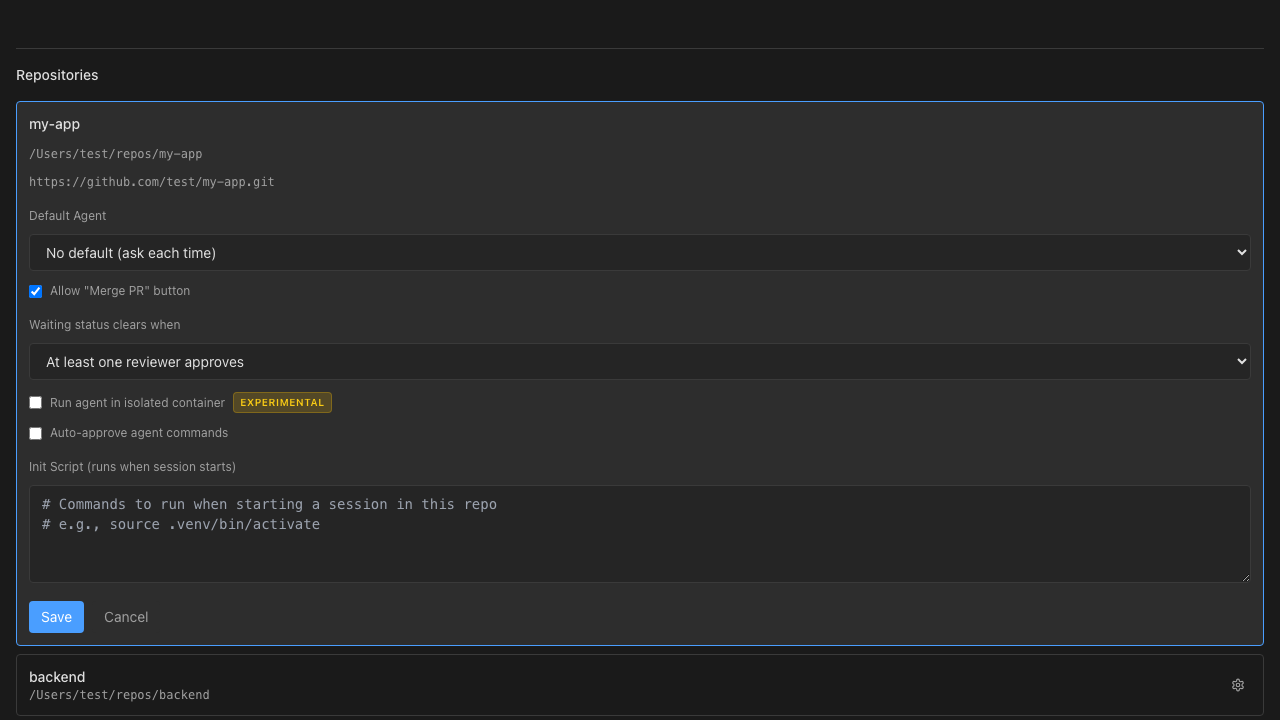
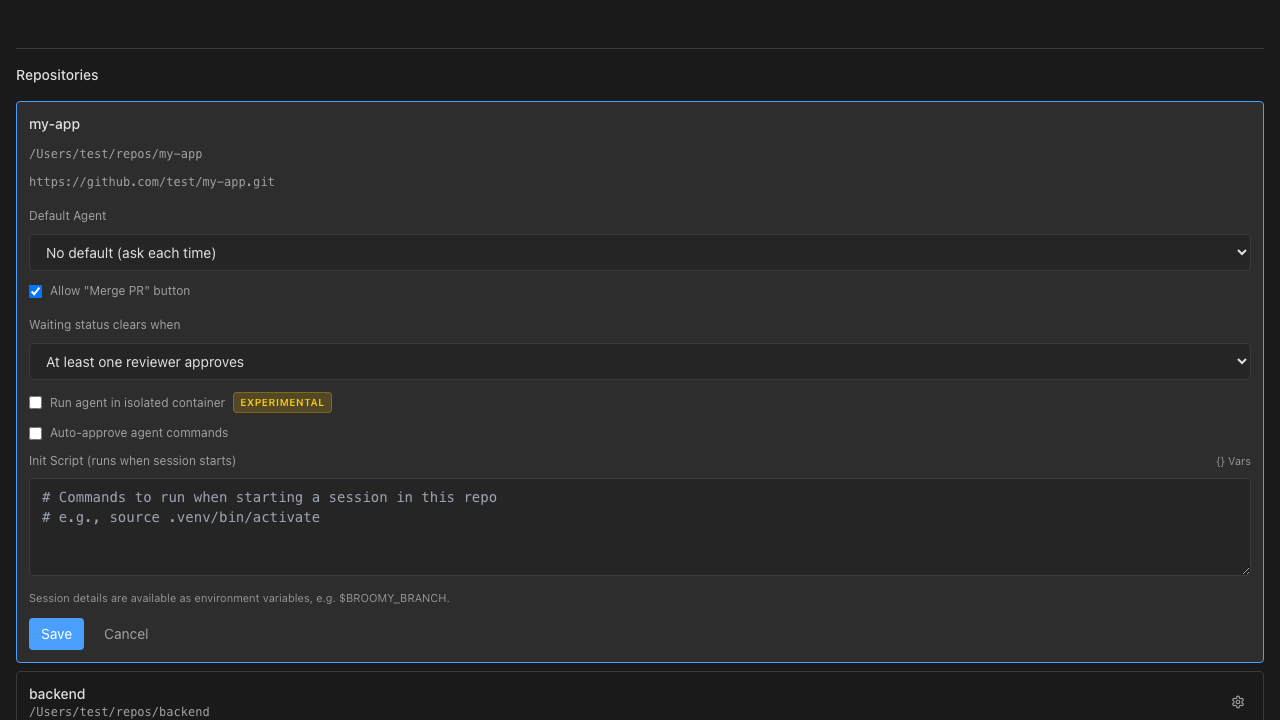
docs: screenshot walkthrough for template variables
Adds tests/features/template-vars covering all four surfaces, a stable
test id on the command field, and Storybook references for the new picker
stories plus the settings panels that gained a Vars button.

Shortens the init-surface unavailable reason so it is not truncated in
the picker's value column.

Claude-Session: https://claude.ai/code/session_01Nc7ptNDG1siTz1h19ecGL4

Changed region(s): [[0.0, 0.825, 0.3438, 1.0], [0.0312, 0.6111, 0.4062, 0.7333], [0.9375, 0.9167, 0.9688, 0.9472]]

diff --git a/tests/features/template-vars/template-vars.spec.ts b/tests/features/template-vars/template-vars.spec.ts
@@ -1,0 +1,306 @@
+/**
+ * Feature Documentation: Template Variables
+ *
+ * Documents the template variable registry and its picker modal across all four
+ * surfaces that accept variables: commands.json templates, the expanded command
+ * editor, the agent command, and the per-repo init script.
+ *
+ * Two syntaxes, chosen by target. Data targets ({} form) are never parsed by a
+ * shell; shell targets ($BROOMY_ form) receive values as environment variables
+ * so GitHub-controlled titles cannot be spliced into a command line.
+ *
+ * Run with: pnpm test:feature-docs template-vars
+ */
+import { test, expect, resetApp } from '../_shared/electron-fixture'
+import type { Page } from '@playwright/test'
+import path from 'path'
+import fs from 'fs'
+import { fileURLToPath } from 'url'
+import { screenshotElement } from '../_shared/screenshot-helpers'
+import { generateFeaturePage, generateIndex, FeatureStep } from '../_shared/template'
+
+const __filename = fileURLToPath(import.meta.url)
+const __dirname = path.dirname(__filename)
+
+const FEATURE_DIR = __dirname
+const SCREENSHOTS = path.join(FEATURE_DIR, 'screenshots')
+const FEATURES_ROOT = path.join(__dirname, '..')
+
+let page: Page
+const steps: FeatureStep[] = []
+
+async function openCommandsEditor() {
+  await page.evaluate(() => {
+    const store = (window as Record<string, unknown>).__sessionStore as {
+      getState: () => {
+        activeSessionId: string
+        sessions: { id: string; directory: string }[]
+        openCommandsEditor: (sessionId: string, directory: string) => void
+      }
+    }
+    if (!store) return
+    const state = store.getState()
+    const session = state.sessions.find(s => s.id === state.activeSessionId)
+    if (session) state.openCommandsEditor(state.activeSessionId, session.directory)
+  })
+}
+
+async function openSettings() {
+  const settingsButton = page.locator('button[title^="Settings"]')
+  await settingsButton.click()
+  await page.waitForSelector('[data-panel-id="settings"]', { state: 'visible', timeout: 5000 })
+}
+
+/** The picker dialog, once opened from any surface. */
+function varsDialog() {
+  return page.getByRole('dialog', { name: 'Template variables' })
+}
+
+test.beforeAll(async () => {
+  await fs.promises.mkdir(SCREENSHOTS, { recursive: true })
+  ;({ page } = await resetApp())
+})
+
+test.afterAll(async () => {
+  await generateFeaturePage(
+    {
+      title: 'Template Variables',
+      description:
+        'Command templates can inject session state — the current branch, PR, issue, repo, and ' +
+        'stage — via 14 variables defined in one registry. A searchable picker makes them ' +
+        'discoverable from every surface that accepts them, showing each variable\'s description ' +
+        'and its current live value, and inserting it at the cursor. ' +
+        'The syntax depends on the target: data targets (commands.json templates, agent env ' +
+        'values) use {name}, while shell targets (the agent command, the repo init script) use ' +
+        '$BROOMY_NAME. That split is deliberate — PR and issue titles carry GitHub-controlled ' +
+        'text, and passing them as environment variables keeps them inert data rather than ' +
+        'splicing them into a command line.',
+      steps,
+    },
+    FEATURE_DIR,
+  )
+  await generateIndex(FEATURES_ROOT)
+})
+
+test.describe.serial('Feature: Template Variables', () => {
+  test('Step 1: The commands editor exposes a Vars button', async () => {
+    await openCommandsEditor()
+    await expect(page.getByRole('tab', { name: /user/i })).toBeVisible()
+
+    // Select the first command so the detail pane renders.
+    await page.locator('button:has(.text-2xs.font-mono)').first().click()
+
+    const varsButton = page.getByTestId('open-template-vars')
+    await expect(varsButton).toBeVisible()
+
+    const editor = page.getByRole('tab', { name: /user/i })
+      .locator('xpath=ancestor::div[contains(@class, "h-full")][1]').first()
+    await screenshotElement(page, editor, path.join(SCREENSHOTS, '01-vars-button.png'), {
+      maxHeight: 720,
+    })
+    steps.push({
+      screenshotPath: 'screenshots/01-vars-button.png',
+      caption: 'A "{} Vars" button sits beside Expand on the Command field',
+      description:
+        'Previously the only hint that variables existed was a line of help text. The Command ' +
+        'field now carries a "{} Vars" button next to "⤢ Expand", so the available variables are ' +
+        'one click away while you are writing the template.',
+    })
+  })
+
+  test('Step 2: The picker lists every variable, grouped, with live values', async () => {
+    await page.getByTestId('open-template-vars').click()
+
+    const dialog = varsDialog()
+    await expect(dialog).toBeVisible()
+
+    // Grouped by section, in registry order.
+    await expect(dialog.getByText('Repo', { exact: true })).toBeVisible()
+    await expect(dialog.getByText('Pull request', { exact: true })).toBeVisible()
+    await expect(dialog.getByText('Issue', { exact: true })).toBeVisible()
+
+    // Data surface, so the {} form.
+    await expect(dialog.getByText('{branch}')).toBeVisible()
+    await expect(dialog.getByText('{prTitle}')).toBeVisible()
+
+    await screenshotElement(page, dialog, path.join(SCREENSHOTS, '02-picker-open.png'), {
+      maxHeight: 720,
+    })
+    steps.push({
+      screenshotPath: 'screenshots/02-picker-open.png',
+      caption: 'All 14 variables, grouped by Repo / Branch / Pull request / Issue / Session',
+      description:
+        'Each row shows the variable, a one-line description, and its current value on the right ' +
+        'resolved against the active session — so you can see what a template will actually ' +
+        'produce before saving it. A variable with no value right now reads as "—". Values come ' +
+        'from the same function the runtime uses, so the picker and the resolved command can ' +
+        'never disagree.',
+    })
+  })
+
+  test('Step 3: Search narrows the list', async () => {
+    const dialog = varsDialog()
+    await dialog.getByPlaceholder('Search variables…').fill('issue')
+
+    await expect(dialog.getByText('{issueTitle}')).toBeVisible()
+    await expect(dialog.getByText('{branch}')).toHaveCount(0)
+
+    await screenshotElement(page, dialog, path.join(SCREENSHOTS, '03-picker-search.png'), {
+      maxHeight: 720,
+    })
+    steps.push({
+      screenshotPath: 'screenshots/03-picker-search.png',
+      caption: 'Searching filters on name, env name, and description',
+      description:
+        'Typing "issue" narrows the list to the Issue group. The search matches the variable ' +
+        'name, its BROOMY_ environment name, and the description text, so you can find a ' +
+        'variable by what it does rather than what it is called.',
+    })
+
+    await dialog.getByPlaceholder('Search variables…').fill('')
+  })
+
+  test('Step 4: Clicking a variable inserts it at the cursor', async () => {
+    const dialog = varsDialog()
+    await dialog.getByText('{branch}').click()
+
+    // Dialog closes on insert.
+    await expect(dialog).toHaveCount(0)
+
+    const commandField = page.getByTestId('command-template-field')
+    await expect(commandField).toHaveValue(/\{branch\}/)
+
+    const editor = page.getByRole('tab', { name: /user/i })
+      .locator('xpath=ancestor::div[contains(@class, "h-full")][1]').first()
+    await screenshotElement(page, editor, path.join(SCREENSHOTS, '04-inserted.png'), {
+      maxHeight: 720,
+    })
+    steps.push({
+      screenshotPath: 'screenshots/04-inserted.png',
+      caption: 'The variable lands at the caret, not appended to the end',
+      description:
+        'Clicking a row splices the variable in at the cursor position, replacing any selection, ' +
+        'then restores focus with the caret placed after the inserted text — so you can keep ' +
+        'typing. Because the name is now a reserved context variable, it is filled in ' +
+        'automatically at run time and does not appear in the Args table below as a prompted ' +
+        'argument.',
+    })
+  })
+
+  test('Step 5: The expanded editor has the same picker', async () => {
+    await page.getByTestId('expand-command').click()
+    await expect(page.getByTestId('expanded-command-textarea')).toBeVisible()
+
+    await page.getByTestId('open-template-vars-expanded').click()
+    const dialog = varsDialog()
+    await expect(dialog).toBeVisible()
+    await expect(dialog.getByText('{repoName}')).toBeVisible()
+
+    await screenshotElement(page, dialog, path.join(SCREENSHOTS, '05-expanded-editor.png'), {
+      maxHeight: 720,
+    })
+    steps.push({
+      screenshotPath: 'screenshots/05-expanded-editor.png',
+      caption: 'The expanded editor gets the same picker, in the same {} syntax',
+      description:
+        'Long multi-line templates are edited in the expanded pane, which carries its own ' +
+        '"{} Vars" button in the footer. It shares one component and one registry with the ' +
+        'inline field, so the two can never drift apart.',
+    })
+
+    // Close the picker and the expanded editor.
+    await dialog.getByTestId('close-template-vars').click()
+    await page.getByTestId('close-expanded-command').click()
+  })
+
+  test('Step 6: The agent command uses the $BROOMY_ form', async () => {
+    await openSettings()
+    const settingsPanel = page.locator('[data-panel-id="settings"]')
+
+    await settingsPanel.getByTestId('nav-agents').click()
+    await settingsPanel.locator('button[title="Edit agent"]').first().click()
+    await expect(settingsPanel.locator('input[placeholder="Command (e.g., claude)"]')).toBeVisible({ timeout: 5000 })
+
+    await page.getByTestId('open-template-vars-agent-command').first().click()
+    const dialog = varsDialog()
+    await expect(dialog).toBeVisible()
+
+    // Shell target, so the $BROOMY_ form rather than {}.
+    await expect(dialog.getByText('$BROOMY_BRANCH')).toBeVisible()
+    await expect(dialog.getByText('{branch}')).toHaveCount(0)
+
+    await screenshotElement(page, dialog, path.join(SCREENSHOTS, '06-agent-command.png'), {
+      maxHeight: 720,
+    })
+    steps.push({
+      screenshotPath: 'screenshots/06-agent-command.png',
+      caption: 'The agent command surface offers $BROOMY_BRANCH, not {branch}',
+      description:
+        'The agent command is a command line handed to a shell, so the picker inserts the ' +
+        'environment variable form. Broomy exports every variable into the agent terminal, ' +
+        'letting you write something like: claude --append-system-prompt "$BROOMY_ISSUE_TITLE". ' +
+        'The quoting is yours to control, and an issue titled with backticks stays inert text ' +
+        'instead of executing. Settings has no session in scope, so live values read as "—", ' +
+        'and the footer notes that PR values are empty until the branch has a PR.',
+    })
+
+    await dialog.getByTestId('close-template-vars').click()
+    await settingsPanel.locator('button:text-is("Cancel")').click()
+    await settingsPanel.getByTestId('settings-back').click()
+  })
+
+  test('Step 7: The repo init script dims variables that cannot exist yet', async () => {
+    const settingsPanel = page.locator('[data-panel-id="settings"]')
+    await settingsPanel.locator('[data-testid^="nav-repo-"]').first().click()
+    await expect(settingsPanel.locator('text=Init Script (runs when session starts)')).toBeVisible({ timeout: 5000 })
+
+    await page.getByTestId('open-template-vars-init-script').click()
+    const dialog = varsDialog()
+    await expect(dialog).toBeVisible()
+
+    await expect(dialog.getByText('$BROOMY_PR_TITLE')).toBeVisible()
+    await expect(dialog.getByText('not set at init time').first()).toBeVisible()
+
+    await screenshotElement(page, dialog, path.join(SCREENSHOTS, '07-init-script.png'), {
+      maxHeight: 720,
+    })
+    steps.push({
+      screenshotPath: 'screenshots/07-init-script.png',
+      caption: 'PR and session variables are dimmed here, with the reason spelled out',
+      description:
+        'The init script runs while the worktree is being created — before the session object ' +
+        'exists and before any PR does. Rather than silently offering variables that would ' +
+        'always resolve to nothing, the picker dims those rows, makes them non-insertable, and ' +
+        'says why: "not set at init time". Branch, directory, folder name, repo ' +
+        'name and root, and the issue variables all populate normally.',
+    })
+
+    await dialog.getByTestId('close-template-vars').click()
+  })
+
+  test('Step 8: Inserting into the init script', async () => {
+    const settingsPanel = page.locator('[data-panel-id="settings"]')
+    const textarea = settingsPanel.locator('textarea[placeholder*="Commands to run when starting"]')
+    await expect(textarea).toBeVisible()
+
+    await textarea.fill('echo Setting up ')
+    await page.getByTestId('open-template-vars-init-script').click()
+    await varsDialog().getByText('$BROOMY_BRANCH').click()
+
+    await expect(textarea).toHaveValue(/\$BROOMY_BRANCH/)
+
+    await screenshotElement(page, settingsPanel, path.join(SCREENSHOTS, '08-init-script-inserted.png'), {
+      maxHeight: 700,
+    })
+    steps.push({
+      screenshotPath: 'screenshots/08-init-script-inserted.png',
+      caption: 'The script reads session state from the environment',
+      description:
+        'The helper text under the field states the contract: session details arrive as ' +
+        'environment variables. Every variable is exported even when empty, so a script can ' +
+        'safely use a shell default like ${BROOMY_ISSUE_NUMBER:-none}. Five separate call sites ' +
+        'used to run this script with duplicated code; they now share one helper, so the ' +
+        'variables reached all of them in a single change.',
+    })
+  })
+})

diff --git a/src/renderer/panels/settings/RepoSettingsEditor.test.tsx b/src/renderer/panels/settings/RepoSettingsEditor.test.tsx
@@ -272,11 +272,11 @@ describe('RepoSettingsEditor template variables', () => {
     expect(textarea).toHaveValue('echo $BROOMY_BRANCH')
   })
 
-  it('dims variables that are not set when the init script runs', async () => {
+  it('dims variables that are not set at init time', async () => {
     render(<RepoSettingsEditor repo={mockRepo} agents={[]} onUpdate={vi.fn()} onClose={vi.fn()} />)
     await screen.findByPlaceholderText(/Commands to run when starting a session/)
     fireEvent.click(screen.getByTestId('open-template-vars-init-script'))
     expect(await screen.findByText('$BROOMY_PR_TITLE')).toBeInTheDocument()
-    expect(screen.getAllByText('not set when the init script runs').length).toBeGreaterThan(0)
+    expect(screen.getAllByText('not set at init time').length).toBeGreaterThan(0)
   })
 })

diff --git a/src/renderer/panels/fileViewer/CommandsEditor.tsx b/src/renderer/panels/fileViewer/CommandsEditor.tsx
@@ -400,6 +400,7 @@ function Detail({
           <input
             ref={commandRef}
             type="text"
+            data-testid="command-template-field"
             value={selected.template}
             onChange={e => onUpdate({ template: e.target.value })}
             className="w-full px-2 py-1.5 text-sm font-mono rounded border border-border bg-bg-secondary text-text-primary focus:outline-none focus:border-accent"
@@ -407,6 +408,7 @@ function Detail({
         ) : (
           <textarea
             ref={commandRef}
+            data-testid="command-template-field"
             value={selected.template}
             onChange={e => onUpdate({ template: e.target.value })}
             rows={6}

diff --git a/src/renderer/shared/components/TemplateVarsModal.test.tsx b/src/renderer/shared/components/TemplateVarsModal.test.tsx
@@ -62,7 +62,7 @@ describe('TemplateVarsModal', () => {
   it('does not insert an unavailable variable and explains why', () => {
     const onInsert = vi.fn()
     render(<TemplateVarsModal surface="init" varInput={varInput} onInsert={onInsert} onClose={vi.fn()} />)
-    expect(screen.getAllByText('not set when the init script runs').length).toBeGreaterThan(0)
+    expect(screen.getAllByText('not set at init time').length).toBeGreaterThan(0)
     fireEvent.click(screen.getByText('$BROOMY_PR_TITLE'))
     expect(onInsert).not.toHaveBeenCalled()
   })

diff --git a/src/renderer/features/commands/templateVars.ts b/src/renderer/features/commands/templateVars.ts
@@ -142,7 +142,7 @@ export const UNAVAILABLE_REASON: Record<TemplateVarSurface, string> = {
   command: 'not available here',
   agent: 'not available here',
   envValue: 'not available here',
-  init: 'not set when the init script runs',
+  init: 'not set at init time',
 }
 
 export function isAvailableAt(v: TemplateVarDef, surface: TemplateVarSurface): boolean {
